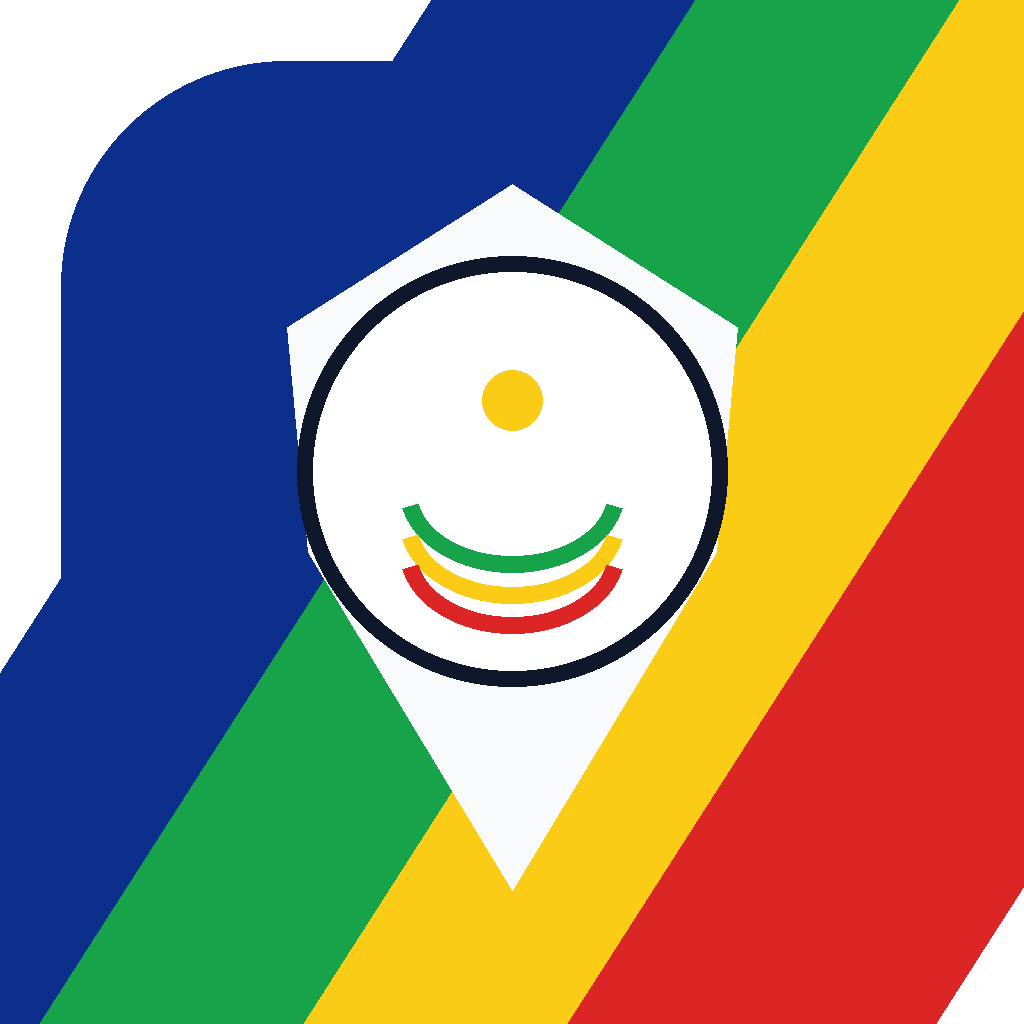
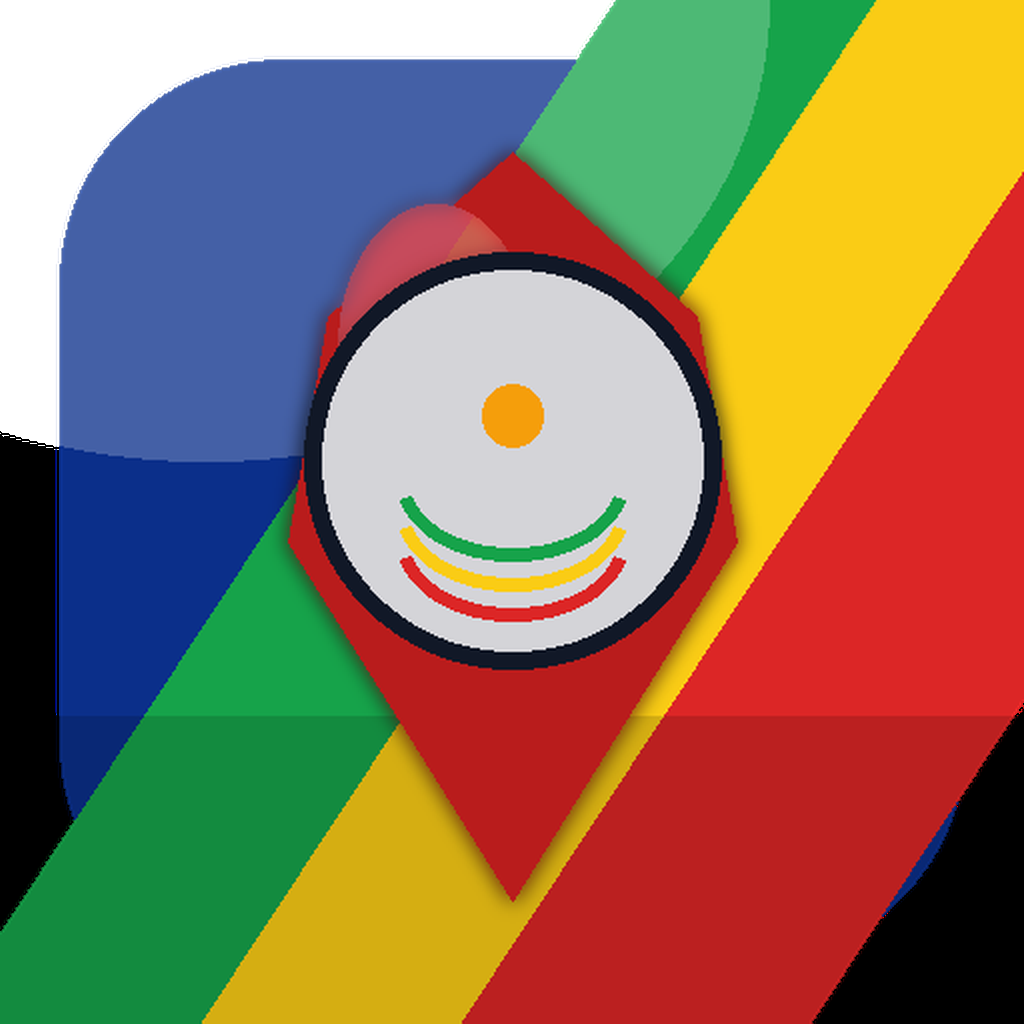
Atualiza launcher para novo icone oficial

diff --git a/web/index_simple.html b/web/index_simple.html
@@ -9,10 +9,10 @@
   <meta name="apple-mobile-web-app-capable" content="yes">
   <meta name="apple-mobile-web-app-title" content="ObservaATT PE">
   <meta name="apple-mobile-web-app-status-bar-style" content="black-translucent">
-  <link rel="icon" type="image/svg+xml" href="/icon.svg?v=5">
-  <link rel="icon" type="image/png" sizes="192x192" href="/launcher-home-192.png">
-  <link rel="apple-touch-icon" href="/launcher-home-192.png">
-  <link rel="manifest" href="/manifest.json?v=observaatt-pe-v5">
+  <link rel="icon" type="image/svg+xml" href="/icon.svg?v=6">
+  <link rel="icon" type="image/png" sizes="192x192" href="/launcher-home-3d-192.png">
+  <link rel="apple-touch-icon" href="/launcher-home-3d-192.png">
+  <link rel="manifest" href="/manifest.json?v=observaatt-pe-v6">
   <link rel="preconnect" href="https://unpkg.com" crossorigin>
   <link rel="preconnect" href="https://tile.openstreetmap.org" crossorigin>
   <style>
@@ -668,7 +668,7 @@
   </div>
 
   <header class="hero">
-    <h1><img src="/icon.svg?v=4" alt="Icone do app" width="30" height="30" style="vertical-align:middle; margin-right:8px; border-radius:8px;">ObservaATT PE</h1>
+    <h1><img src="/icon.svg?v=6" alt="Icone do app" width="30" height="30" style="vertical-align:middle; margin-right:8px; border-radius:8px;">ObservaATT PE</h1>
     <p>Sinistros com Registro Centralizado</p>
     <div class="palette" aria-hidden="true"></div>
   </header>

diff --git a/index_simple.html b/index_simple.html
@@ -7,15 +7,15 @@
     <meta name="description" content="App para reportar acidentes de trânsito em Pernambuco">
 
     <!-- PWA Manifest -->
-    <link rel="manifest" href="manifest.json?v=observaatt-pe-v5">
+    <link rel="manifest" href="manifest.json?v=observaatt-pe-v6">
 
     <!-- iOS PWA -->
     <meta name="apple-mobile-web-app-capable" content="yes">
     <meta name="apple-mobile-web-app-status-bar-style" content="default">
     <meta name="apple-mobile-web-app-title" content="ObservaATT PE">
-    <link rel="icon" type="image/svg+xml" href="web/icon.svg?v=5">
-    <link rel="icon" type="image/png" sizes="192x192" href="LauncherHome-192.png">
-    <link rel="apple-touch-icon" href="LauncherHome-192.png">
+    <link rel="icon" type="image/svg+xml" href="web/icon.svg?v=6">
+    <link rel="icon" type="image/png" sizes="192x192" href="LauncherHome-3d-192.png">
+    <link rel="apple-touch-icon" href="LauncherHome-3d-192.png">
 
     <title>ObservaATT PE</title>
     <style>

diff --git a/web/sw.js b/web/sw.js
@@ -1,14 +1,14 @@
-const CACHE_NAME = 'observaatt-pe-v5';
-const API_CACHE = 'observaatt-pe-api-v5';
-const MANIFEST_URL = '/manifest.json?v=observaatt-pe-v5';
+const CACHE_NAME = 'observaatt-pe-v6';
+const API_CACHE = 'observaatt-pe-api-v6';
+const MANIFEST_URL = '/manifest.json?v=observaatt-pe-v6';
 const ASSETS = [
   '/',
   MANIFEST_URL,
-  '/icon.svg?v=5',
-  '/launcher-home-192.png',
-  '/launcher-home-512.png',
-  '/launcher-home-maskable-192.png',
-  '/launcher-home-maskable-512.png',
+  '/icon.svg?v=6',
+  '/launcher-home-3d-192.png',
+  '/launcher-home-3d-512.png',
+  '/launcher-home-3d-maskable-192.png',
+  '/launcher-home-3d-maskable-512.png',
   '/sw.js',
   'https://unpkg.com/leaflet@1.9.4/dist/leaflet.css',
   'https://unpkg.com/leaflet@1.9.4/dist/leaflet.js'

diff --git a/index.html b/index.html
@@ -24,13 +24,13 @@
   <meta name="apple-mobile-web-app-capable" content="yes">
   <meta name="apple-mobile-web-app-status-bar-style" content="black">
   <meta name="apple-mobile-web-app-title" content="ObservaATT PE">
-  <link rel="apple-touch-icon" href="LauncherHome-192.png">
+  <link rel="apple-touch-icon" href="LauncherHome-3d-192.png">
 
   <!-- Favicon -->
-  <link rel="icon" type="image/png" href="favicon.png?v=5"/>
+  <link rel="icon" type="image/png" href="favicon.png?v=6"/>
 
   <title>ObservaATT PE</title>
-  <link rel="manifest" href="manifest.json?v=observaatt-pe-v5">
+  <link rel="manifest" href="manifest.json?v=observaatt-pe-v6">
 
   <script>
     // The value below is injected by flutter build, do not touch.
